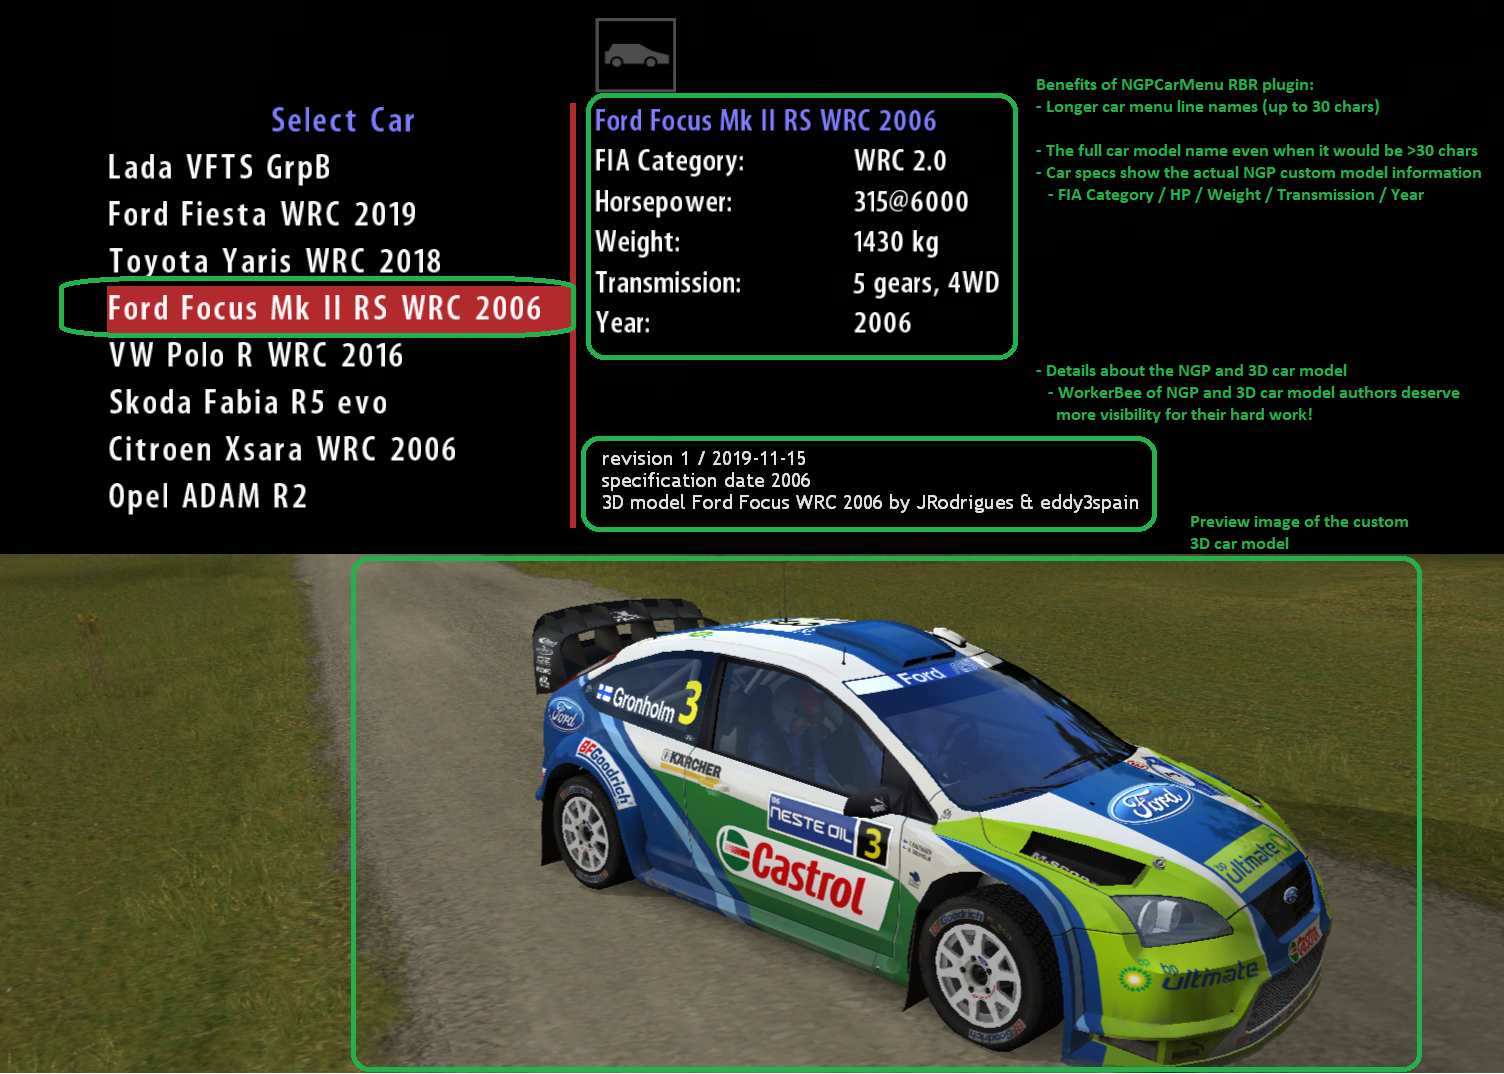
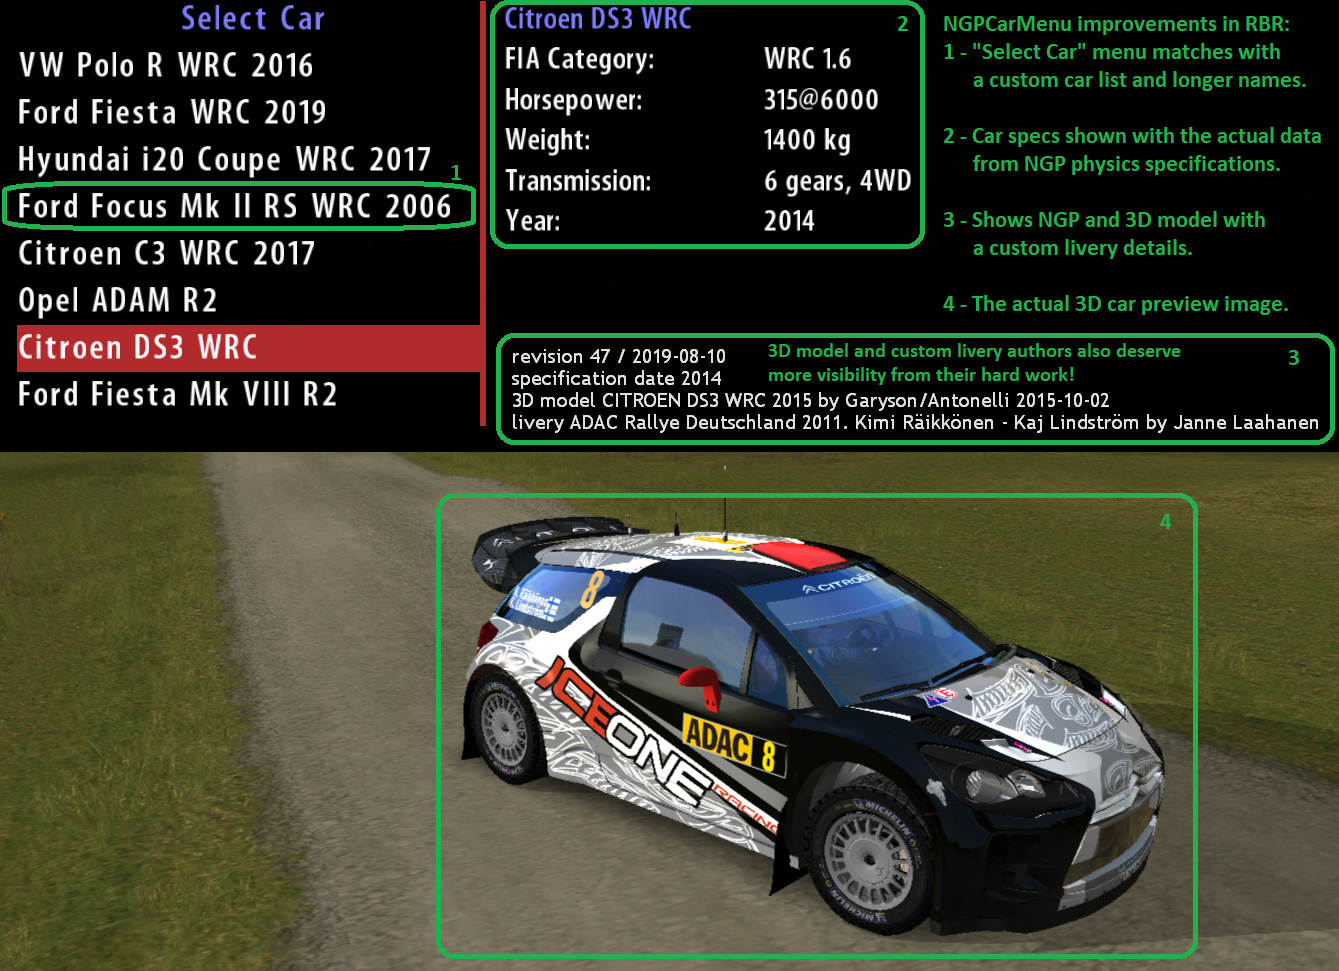
Custom user livery support with EasyRBR tool. UTF8 encoded string handling with EasyRBR data.

diff --git a/src/NGPCarMenu.cpp b/src/NGPCarMenu.cpp
@@ -508,6 +508,7 @@ void CNGPCarMenu::InitCarSpecData_RBRCIT()
 //   - Find [<car model from step1>] block
 //   - Find LivX=<livery name from step2> attribute
 //   - Use CreditsX= value as a livery credit
+//   - If the stock LiveriesList didn't have the livery name then try to find the credit text from EasyRBR\cars\<car model from step1>\liveries\_userliveries\UserLivery.ini file
 // - Step6: Use the car model name (step1) as a key to RBRCIT/carlist/carList.ini file NAME=xxxx line
 //   - FIA category (cat) / year / weight / power / trans
 //   - Where is this information in EasyRBR setup?
@@ -527,13 +528,14 @@ void CNGPCarMenu::InitCarSpecData_EASYRBR()
 	CSimpleIniW stockCarListINIFile;
 	std::wstring sStockCarModelName;
 
-	CSimpleIniW easyRBRINIFile;
-	std::wstring sEasyRBRCarModelName;  // The display car name (StockCarModelName) is not always the same as the car folder name used in EasyRBR. This is the internal EasyRBR model name
-	std::wstring sEasyRBRLiveryName;
-	std::wstring sEasyRBRLiveryCredit;
-	std::wstring sEasyRBRPhysicsName;
-
+	CSimpleIniW  easyRBRINIFile;
 	CSimpleIniW easyRBRLiveriesList;
+	CSimpleIniW easyRBRUserLiveriesList;
+
+	std::wstring sEasyRBRCarModelName;  // The display car name (StockCarModelName) is not always the same as the car folder name used in EasyRBR. This is the internal EasyRBR model name
+	std::wstring sEasyRBRLiveryName;    // Name of the livery
+	std::wstring sEasyRBRLiveryCredit;  // Credits (author) of the livery
+	std::wstring sEasyRBRPhysicsName;   // NGP physics used in EasyRBR setups (NGP5 or NGP6)
 
 	std::string sPath;
 	sPath.reserve(_MAX_PATH);
@@ -567,6 +569,7 @@ void CNGPCarMenu::InitCarSpecData_EASYRBR()
 		sEasyRBRPhysicsName = easyRBRINIFile.GetValue(L"General", L"Physics", L"");
 		_Trim(sEasyRBRPhysicsName);
 
+
 		// The loop uses menu idx order, not in car slot# idx order
 		for (int idx = 0; idx < 8; idx++)
 		{
@@ -584,10 +587,12 @@ void CNGPCarMenu::InitCarSpecData_EASYRBR()
 			_Trim(sEasyRBRLiveryName);
 			if (!sEasyRBRLiveryName.empty())
 			{
-				sTextValue = L"livery " + sEasyRBRLiveryName;
+				// EasyRBR encodes unicode chars as \xXX hex values. Decode those back to "normal" chars
+				sTextValue = L"livery " + ::_DecodeUtf8String(sEasyRBRLiveryName);
 				wcsncpy_s(g_RBRCarSelectionMenuEntry[idx].wszCarPhysicsLivery, sTextValue.c_str(), COUNT_OF_ITEMS(g_RBRCarSelectionMenuEntry[idx].wszCarPhysicsLivery));
 			}
 
+			// Read the EasyRBR internal car model name (not always the same as display car model name). This value is used as a lookup key to car specific EasyRBR config files
 			sEasyRBRCarModelName = easyRBRINIFile.GetValue(wszEasyRBRCarSlot, L"EasyRbrCarName", L"");
 			_Trim(sEasyRBRCarModelName);
 			
@@ -602,29 +607,60 @@ void CNGPCarMenu::InitCarSpecData_EASYRBR()
 					g_RBRCarSelectionMenuEntry[idx].wszCarPhysics3DModel[0] = L'\0'; // Clear warning about missing NGP car desc file
 
 
-			// Read liveries credit text from EasyRBR config files
-			int iLiveryCount = std::stoi(easyRBRLiveriesList.GetValue(sEasyRBRCarModelName.c_str(), L"Number", L"0"));
-			for (int iLiveryIdx = 1; iLiveryIdx <= iLiveryCount; iLiveryIdx++)
-			{		
-				swprintf_s(wszEasyRBRCarSlot, COUNT_OF_ITEMS(wszEasyRBRCarSlot), L"Liv%d", iLiveryIdx);
-				sTextValue = easyRBRLiveriesList.GetValue(sEasyRBRCarModelName.c_str(), wszEasyRBRCarSlot, L"");
-				_Trim(sTextValue);
+			// Read liveries credit text from EasyRBR config files. If the livery was not found from normal liveries then try to look for credit text fom UserLivery.ini file			
+			if (!sEasyRBRLiveryName.empty())
+			{
+				sTextValue.clear();
 
-				//DebugPrint(L"%s=%s == %s", wszEasyRBRCarSlot, sTextValue.c_str(), sEasyRBRLiveryName.c_str());
-
-				if (sTextValue.compare(sEasyRBRLiveryName) == 0)
+				int iLiveryCount = std::stoi(easyRBRLiveriesList.GetValue(sEasyRBRCarModelName.c_str(), L"Number", L"0"));
+				for (int iLiveryIdx = 1; iLiveryIdx <= iLiveryCount; iLiveryIdx++)
 				{
-					swprintf_s(wszEasyRBRCarSlot, COUNT_OF_ITEMS(wszEasyRBRCarSlot), L"Credits%d", iLiveryIdx);
+					swprintf_s(wszEasyRBRCarSlot, COUNT_OF_ITEMS(wszEasyRBRCarSlot), L"Liv%d", iLiveryIdx);
 					sTextValue = easyRBRLiveriesList.GetValue(sEasyRBRCarModelName.c_str(), wszEasyRBRCarSlot, L"");
 					_Trim(sTextValue);
 
-					// Append livery credit text to the existing livery text
-					if (!sTextValue.empty())
+					//DebugPrint(L"%s=%s == %s", wszEasyRBRCarSlot, sTextValue.c_str(), sEasyRBRLiveryName.c_str());
+
+					if (sTextValue.compare(sEasyRBRLiveryName) == 0)
 					{
-						sTextValue = std::wstring(g_RBRCarSelectionMenuEntry[idx].wszCarPhysicsLivery) + L" (" + sTextValue + L")";
-						wcsncpy_s(g_RBRCarSelectionMenuEntry[idx].wszCarPhysicsLivery, sTextValue.c_str(), COUNT_OF_ITEMS(g_RBRCarSelectionMenuEntry[idx].wszCarPhysicsLivery));
+						swprintf_s(wszEasyRBRCarSlot, COUNT_OF_ITEMS(wszEasyRBRCarSlot), L"Credits%d", iLiveryIdx);
+						sTextValue = ::_DecodeUtf8String(easyRBRLiveriesList.GetValue(sEasyRBRCarModelName.c_str(), wszEasyRBRCarSlot, L""));
+						_Trim(sTextValue);
+						break;
 					}
-					break;
+
+					sTextValue.clear();
+				}
+
+				sPath = _ToString(m_easyRBRFilePath + L"\\..\\Cars\\" + sEasyRBRCarModelName + L"\\liveries\\_userliveries\\UserLivery.ini");
+				if (sTextValue.empty() && fs::exists(sPath))
+				{
+					// Livery was not found from the stock EasyRBR livery list. Try to find the livery credit text from a custom user liveries
+					easyRBRUserLiveriesList.LoadFile(sPath.c_str());
+					
+					iLiveryCount = std::stoi(easyRBRUserLiveriesList.GetValue(L"General", L"Number", L"0"));
+					sTextValue.clear();
+					for (int iLiveryIdx = 1; iLiveryIdx <= iLiveryCount; iLiveryIdx++)
+					{
+						swprintf_s(wszEasyRBRCarSlot, COUNT_OF_ITEMS(wszEasyRBRCarSlot), L"User_%d", iLiveryIdx);
+						sTextValue = easyRBRUserLiveriesList.GetValue(wszEasyRBRCarSlot, L"LiveryName", L"");
+						_Trim(sTextValue);
+						if (sTextValue.compare(sEasyRBRLiveryName) == 0)
+						{
+							sTextValue = ::_DecodeUtf8String(easyRBRUserLiveriesList.GetValue(wszEasyRBRCarSlot, L"Credits", L""));
+							_Trim(sTextValue);
+							break;
+						}
+						
+						sTextValue.clear();
+					}
+				}
+
+				// Append livery credit text (author) to the existing livery description text
+				if (!sTextValue.empty())
+				{
+					sTextValue = std::wstring(g_RBRCarSelectionMenuEntry[idx].wszCarPhysicsLivery) + L" by " + sTextValue;
+					wcsncpy_s(g_RBRCarSelectionMenuEntry[idx].wszCarPhysicsLivery, sTextValue.c_str(), COUNT_OF_ITEMS(g_RBRCarSelectionMenuEntry[idx].wszCarPhysicsLivery));
 				}
 			}
 		}

diff --git a/src/D3D9Helpers.h b/src/D3D9Helpers.h
@@ -77,6 +77,9 @@ extern std::string  _ToString(const std::wstring & s);     // Convert std::wstri
 
 extern std::string  _ToUTF8String(const std::wstring & s); // Convert widchar std::wstring(UTF8) to multibyte string value (WinOS specific implementation)
 extern std::wstring _ToUTF8WString(const std::string & s); // Convert multibyte std::string(UTF8) to widechar UTF8 string value (WinOS specific implementation) 
+extern std::wstring _ToUTF8WString(const std::wstring & s);// Convert multibyte std::wstring(UTF8) to widechar UTF8 string value (WinOS specific implementation) 
+
+extern std::wstring _DecodeUtf8String(const std::wstring & s_encoded); // Decode UTF8 encoded string to "normal" string value
 
 extern inline void _ToLowerCase(std::string & s);       // Convert string to lowercase letters (in-place, so the original str in the parameter is converted)
 extern inline void _ToLowerCase(std::wstring & s);      // Convert wstring to lowercase letters (in-place)

diff --git a/src/RBRAPI.cpp b/src/RBRAPI.cpp
@@ -195,6 +195,9 @@ BOOL ReadOpCodeByte(const LPVOID readAddr, BYTE byteValue)
 }
 
 
+//-------------------------------------------------------------------------------------
+
+
 // Map RBR carID to menu order index (ie. internal RBR car slot numbers are not in the same order as "Select car" menu items)
 int RBRAPI_MapCarIDToMenuIdx(int carID)
 {	

diff --git a/ReadMe.md b/ReadMe.md
@@ -12,7 +12,7 @@ The original "Select Car" menu within the RBR game has various problems:
 This **NGPCarMenu RBR plugin solves these problems** by doing following enhancements to the built-in "Select Car" menu:
 - Shows a custom car preview image using the actual 3D model of custom car models.
 - Shows the actual car specs information from a NGP model (engine HP, number of gears, 4WD/FWD/RWD, FIA category, classification year, etc).
-- Shows more information about installed 3D car models and authors (3D car model creators definitely deserve more attention).
+- Shows more information about installed 3D car models, liveries and authors (3D car model creators definitely deserve more attention).
 - Generates new car preview images from the currently installed 3D car models (*Options/Plugins/NGPCarMenu/Create car image* in-game menu command).
 - Customized car and camera position to take automatic screenshots of 3D car models (well, not yet implemented in INI config file. Car and cam position is pre-set in the plugin code. Maybe the next version moves this setting to INI file).
 - Longer car model names in car specs window (as much there is room on the screen).
@@ -30,10 +30,11 @@ Note! This plugin supports only the latest RichardBurnsRally_SSE.exe v1.02 versi
 - Download the latest version from the link shown above (ZIP file).
 - Unzip the NGPCarMenu-versionTag.zip file to the root folder of existing installation of RBR game (for example *c:\games\richardBurnsRally* ).
 - Check *plugins\NGPCarMenu.ini.sample* file settings, especially the *RBRCITCarListPath* option. This option should point to the carList.ini file from NGP physics plugin (by default *RBRCIT\carlist\carList.ini* which is a relative path under the RBR installation folder).
+- Alternatively you can use EasyRBR tool to setup cars. In that case uncomment the EasyRBRPath NGPCarMenu.ini entry and set path to EasyRBR\easyrbr.ini file. 
 - When RBR game with this plugin is started for the first time then the plugin will automatically copy the NGPCarMenu.ini.sample file as NGPCarMenu.ini file if it doesn't exist yet. If the NGPCarMenu.ini already exists then the plugin continues to use it and uses default value in all new options. Check the sample file for tips about those new options. This way you can simply unzip a new version on top of the existing NGPCarMenu plugin because you won't loose your existing customized NGPCarMenu.ini values.
 - Start *RichardBurnsRally_SSE.exe* game as usual and go to *"Options/Plugins/NGPCarMenu"* in-game menu.
 - At first you probably don't have any car preview images under *Plugins\NGPCarMenu\preview* folder. Select *"Create car images"* menu command to generate new preview images. Sit down and wait while the plugin creates new preview images from all installed car models.
-- After this you should use the "Create car images" command when you have installed new NGP custom car models via RBRCIT tool.
+- Use the "Create car images" command when you have installed new custom cars for RBR via RBRCIT or EasyRBR tool.
 - Now you are ready to race! Go to *"Quick Rally/Multiplayer/Season"* in-game menu and verify that you can see the new information and car preview images in *"Select Car"* menu.
 
 The NGPCarMenu.ini file has various screen resolution specific options. There are default values for the most common resolutions, but if the resolution you use is not there then you should add new resolution entry and set a value to at least ScreenshotCropping option. This option defines the rectangle area used in a car preview image screenshot. If you are upgrading from an old version then your existing NGPCarMenu.ini file remains as it is and all new INI options use a default value. Refer to NGPCarMenu.ini.sample for more information about new options.
@@ -54,7 +55,8 @@ rbr\Plugins\NGPCarMenu.ini options (see the INI file for more details):
 | ScreenshotReplay       | Replay filename the plugin uses to generate preview images. |
 | ScreenshotFileType     | PNG or BMP file format in car preview image files. There is also in-game plugin option to set this value. |
 | ScreenshotAPIType      | 0 or 1. 0=DirectX framebuffer capture while creating preview images. 1=GDI capture. Some Win7 PCs seemed to have issues with DX9 framebuffer captures (wrong colors), so this option 1 (GDI) may help in those scenarios. |
-| RBRCITCarListPath      | Path to RBRCIT carList.ini configuration file (NGP car specs) |
+| RBRCITCarListPath      | Path to NGP carList.ini configuration file (NGP car specs). If you use RBRCIT tool then the tool has downloaded the file in RBRCIT folder |
+| EasyRBRPath            | Path to EasyRBR.ini configuration file (EasyRBR car manager tool configurations). By default this is commented out, so NGPCarMenu assumes RBRCIT tool is used. By uncommenting this line NGPCarMenu uses custom car information from EasyRBR car manager tool. |
 | ScreenshotCropping     | Cropping rectangle for the screenshot. Make it "big enough but not too big" to fill the bottom part of "Select Car" RBR menu screen (empty string or 0 0 0 0 uses full screen in a car preview images). |
 | CarSelectLeftBlackBar  | Optional rectangle black bar to hide the stock RBR "left frame" image in "Select Car" menu (empty string or 0 0 0 0 disables the black side bar). The first value (left pos) also defines the X-pos where the car preview image is drawn. |
 | CarSelectRightBlackBar | (the same as above) |
@@ -66,20 +68,22 @@ rbr\Plugins\NGPCarMenu.ini options (see the INI file for more details):
 - **Does "Create car image" command overwrite existing car preview images?** No, the plugin uses *"Create only missing images"* option by default. However, you can change this option in the plugin's in-game menu to *"All car images"* option. This option re-creates all car images.
 - **Can I use my own PNG picture files in the preview subfolder?** Yes you can. If you don't like the preview images created by the plugin then you can use any PNG file as long the filename matches with the car model name used in NGP physics plugin (carList.ini name entries).
 - **Why the "Create car image" command doesn't seem to generate any new files under Plugins\NGPCarMenu\preview folder?** Some PC setups and Windows UAC settings prevent applications to write anything below *c:\program files* or *c:\program files (x86)* folder. Try to use some other folder in NGPCarMenu.ini ScreenshotPath option or copy the whole RBR game folder structure to, for example, *c:\games\rbr* folder.
-- **The plugin creates too big/too small car preview images. How to tweak the image size?** Tweak NGPCarMenu.ini ScreenshotCropping setting. The option uses screen pixel values to set a rectangle area used in a screenshot. Values are relative to the RBR in-game window (0 0 is the left-top pixel of RBR game window).
+- **The plugin creates too big/too small/badly cropped car preview images. How to tweak the image?** Tweak NGPCarMenu.ini ScreenshotCropping setting. The option uses screen pixel values to set a rectangle area used in a screenshot. Values are relative to the RBR in-game window (0 0 is the left-top pixel of RBR game window).
 - **Why the plugin creates just empty black PNG preview image files?** You probably have *fullscreen=true* value in **rbr\RichardBurnsRally.ini** file. Set this to *fullscreen=false* while creating new car preview images. I recommend to use FALSE in this original RBR ini file anyway and to use WorkeBee's FixUp plugin to set the window mode as fullscreen. If you really have to use RBR fullscreen=true option then test different ScreenshotFileType and ScreenshotAPIType options if default values produce black images.
 - **Why preview image files are weird (colors wrong, image distorted)?** Maybe there are some DirectX framebuffer incompatibility issues (feature limitation in the plugin). Try tweaking ScreenshotAPIType or ScreenshotFileType options as explained above.
 - **Can I use this plugin even when I don't use RBRCIT tool to install custom car models?** Yes you can, but you still need to have carList.ini file from NGP physics plugin, but the ini file doesn't have to be the one downloaded and installed by RBRCIT tool. See NGPCarMenu.ini *RBRCITCarListPath* option. Also, each of the eight rbr\physics\carFolder\ subfolders should have a file named as the car model name (no file extension). This filename should match the carList.ini name entries. The content of this file is used to show additional information about the 3D car model (author name, version). Anyway, I recommend the RBRCIT tool because it setups these files automatically when ever you install a new custom car.
+- **Can I use this plugin with EasyRBR car manager tool instead of RBRCIT tool?** Yes you can. See EasyRBRPath ini entry. However, at the moment EasyRBR doesn't download NGP carList.ini file (see RBRCITCarListPath ini entry), so you should download the file manually. See NGPCarMenu.ini.sample for the download URL.
+- **Why custom livery name and author text is not shown?** You probably use RBRCIT tool to install custom cars and manually copied custom car liveries (skins). RBRCIT doesn't support custom liveries, so the custom livery information is not available. EasyRBR tool does support installation of custom liveries, so you should probably use EasyRBR tool if you want to install custom car liveries also.
 - **Can I use this plugin with the original RBR car models without NGP plugin?** Hmmm... Can't see a single reason why NGP car models are not used in RBR. Anyway, in that case you don't need this plugin because the original game has all the information needed for original car models.
-- **What are rbr\plugins\NGPCarMenu\preview\1920x1080 and 1366x768 folders?** This plugin saves new car preview images per resolution (the same preview image may not be the best one for all native resolutions). The *preview* folder has a subfolder which matches the resolution you use (the plugin creates the folder if it is missing). Also, NGPCarMenu.ini file should have a configuration block per resolution.
+- **What are rbr\plugins\NGPCarMenu\preview\1920x1080 and 1366x768 folders?** This plugin saves new car preview images per resolution (the same preview image may not be the best one for all native resolutions). The *preview* folder has a subfolder which matches the resolution you use (the plugin creates the folder if it is missing). Also, NGPCarMenu.ini file should have a configuration entry block per resolution.
 - **Why the "Create car image" replay sometimes continues to run as a normal replay video after the last car?** It could happen if the last generated car is actually the same carID used while recording the replay video. In this case you can quit the replay by pressing ESC key.
 
 - **What is the folder structure used by this plugin?** The DLL and INI plugin files must be in the Plugins directory under the RBR game root folder. Replays RBR folder should have a replay file set in *ScreenshotReplay* option. The file hierarchy is something like this:
    c:\apps\richardBurnsRally\plugins\NGPCarMenu.dll
    c:\apps\richardBurnsRally\plugins\NGPCarMenu.ini
    c:\apps\richardBurnsRally\plugins\NGPCarMenu\preview\
-   c:\apps\richardBurnsRally\Replays\NGPCarMenu.rpl
-
+   c:\apps\richardBurnsRally\plugins\Replays\
+    
 - **I have open questions/bug reports/improvement ideas. Where to post those?** The best place for support about the NGPCarMenu plugin is ["NGPCarMenu - Issue Tracker"](https://github.com/mika-n/NGPCarMenu/issues) page in the official home page of this plugin. For comments and discussions FiSRA-Rirchard_Burns_Rally and RBR Zone discord channels are good places to discuss about RBR game in general.
 
 *One potential problem issue in WinOS FileExplorer integrated ZIP tool is that in some PC setups the extract DLL plugin file may be blocked* because the file was downloaded from Internet (GitHub). To solve this issue select properties of plugins\NGPCarMenu.dll file in FileExplorer (right mouse button) and tick "Unblock" option. Another solution is to use WinRAR or 7-Zip tools to extract the ZIP file.
@@ -90,6 +94,7 @@ Also, some Windows OS setups limit writing new files under c:\program files\ or 
 - FixUp RBR plugin. (author: WorkerBee). [FixUp Home page](http://www.ly-racing.de/viewtopic.php?t=7878)
 - Pacenote RBR plugin. (author: WorkerBee). [Pacenote Home page](http://www.ly-racing.de/viewtopic.php?t=6848)
 - RBR Car Installation Tool, RBRCIT. (author: Zissakos). [RBRCIT Home page](https://github.com/zissakos/RBRCIT)
+- EasyRBR car and track manager tool. (author: Plankgas/PTD). [EasyRBR Home page](https://www.ptd-3d.com/easyrbr/)
 
 This plugin has been tested by NGPCarMenu author with these magnificent RBR plugins/tools and the plugin works great with those. In fact, this plugin should be compatible with any plugin because the plugin doesn't change how the RBR game handles racing and the actual car models.
 
